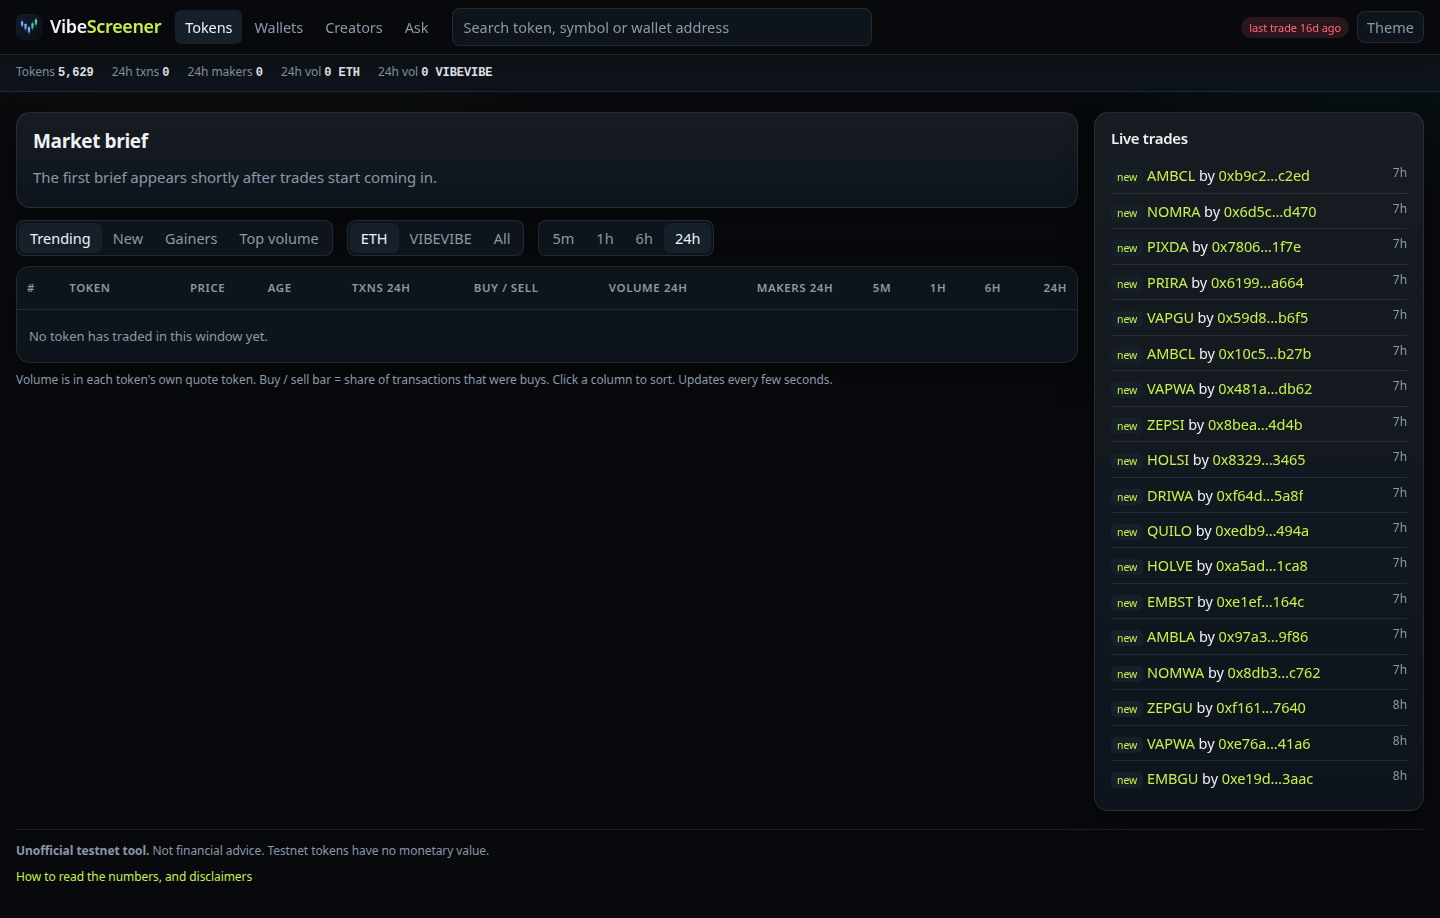
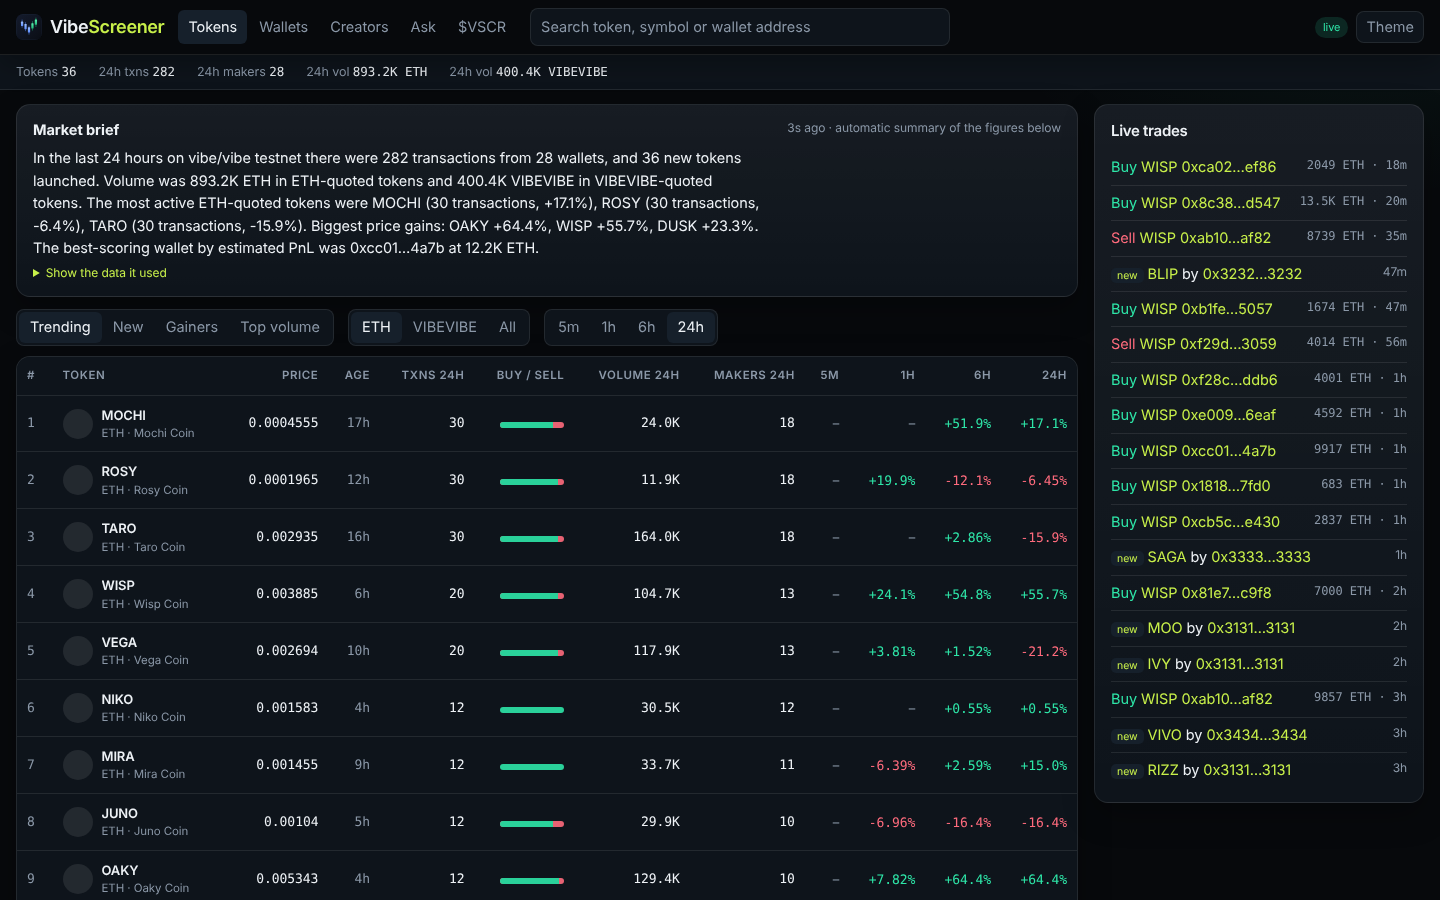
Replace screenshots with current sample-data set; refresh $VSCR page after sign-in
Claude-Session: https://claude.ai/code/session_014A2tSrYU1jkWit3yR2V6c5

diff --git a/vibescreener/static/index.html b/vibescreener/static/index.html
@@ -363,7 +363,7 @@ async function creditsIn(){
   const r=await fetch("/api/auth/login",{method:"POST",headers:{"Content-Type":"application/json"},body:JSON.stringify({wallet:w,signature:sig})});
   const j=await r.json().catch(()=>({}));
   if(!r.ok)throw new Error(j.error||"Sign-in failed");
-  AK.sess=j.session;store.set("vs-session",j.session);AK.wallet=j.wallet;AK.bal=j.balance;balRefresh()}
+  AK.sess=j.session;store.set("vs-session",j.session);AK.wallet=j.wallet;AK.bal=j.balance;await creditsLoad();if(/^#\/vscr/.test(location.hash))await vscrState()}
  catch(e){AK.cerr=e&&e.code===4001?"Sign-in cancelled.":(e&&e.message)||"Sign-in failed."}
  AK.cbusy=false;redraw();
 }

diff --git a/README.md b/README.md
@@ -8,6 +8,17 @@ What works today: every launch and trade indexed live; token, wallet and creator
 
 > Unofficial: not run, reviewed or endorsed by vibe/vibe. Appearing or ranking here is not a review, audit or endorsement. Testnet ETH and tokens have no monetary value; never send mainnet funds to the testnet. Educational only, not financial, legal or security advice.
 
+## Screenshots
+
+These use **sample data** (a stubbed AI and RPC), so the tokens, wallets and numbers are illustrative, not live chain data. Desktop is `01`–`07`, mobile is `m-01`–`m-07`.
+
+| | |
+|---|---|
+| ![Tokens](screenshots/01-tokens.png) | ![Wallets](screenshots/02-wallets.png) |
+| ![Creators](screenshots/03-creators.png) | ![Ask](screenshots/04-ask.png) |
+| ![Token](screenshots/05-token-detail.png) | ![Wallet](screenshots/06-wallet-detail.png) |
+| ![$VSCR](screenshots/07-vscr.png) | ![Mobile](screenshots/m-01-tokens.png) |
+
 ## Indexer (on-chain only)
 
 Indexes vibe/vibe on Robinhood Chain Testnet (chain id 46630) into SQLite:
